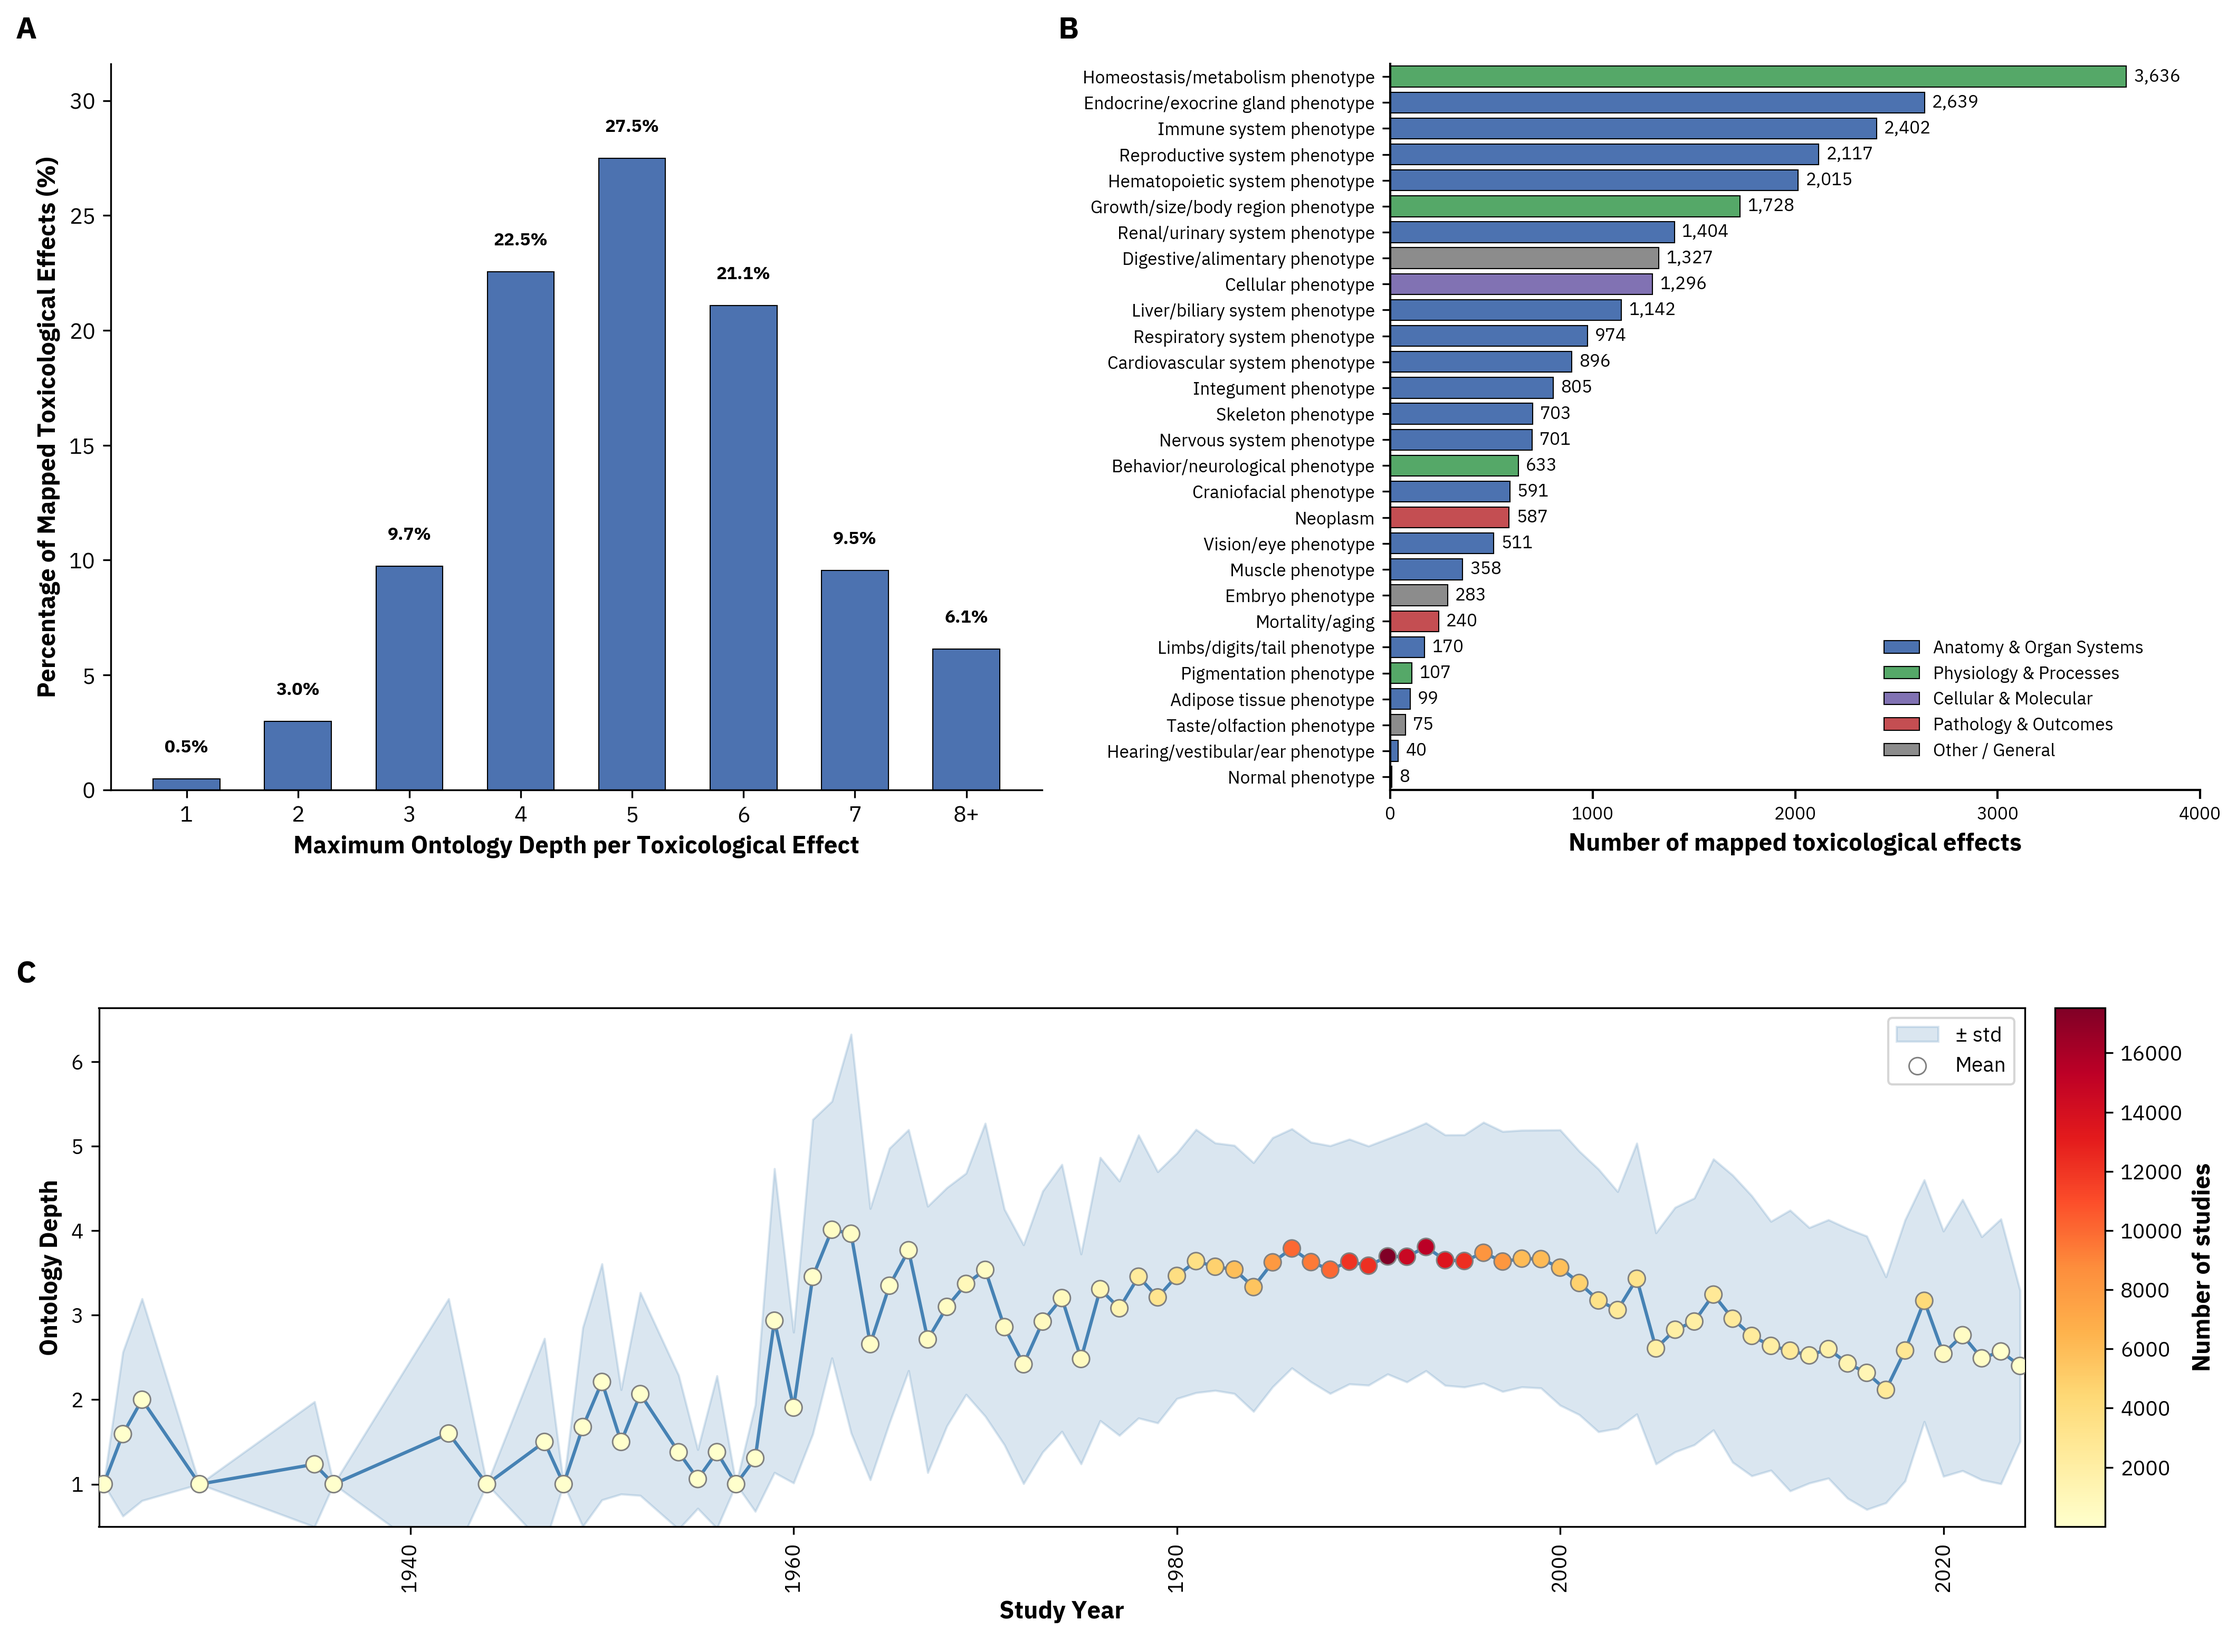
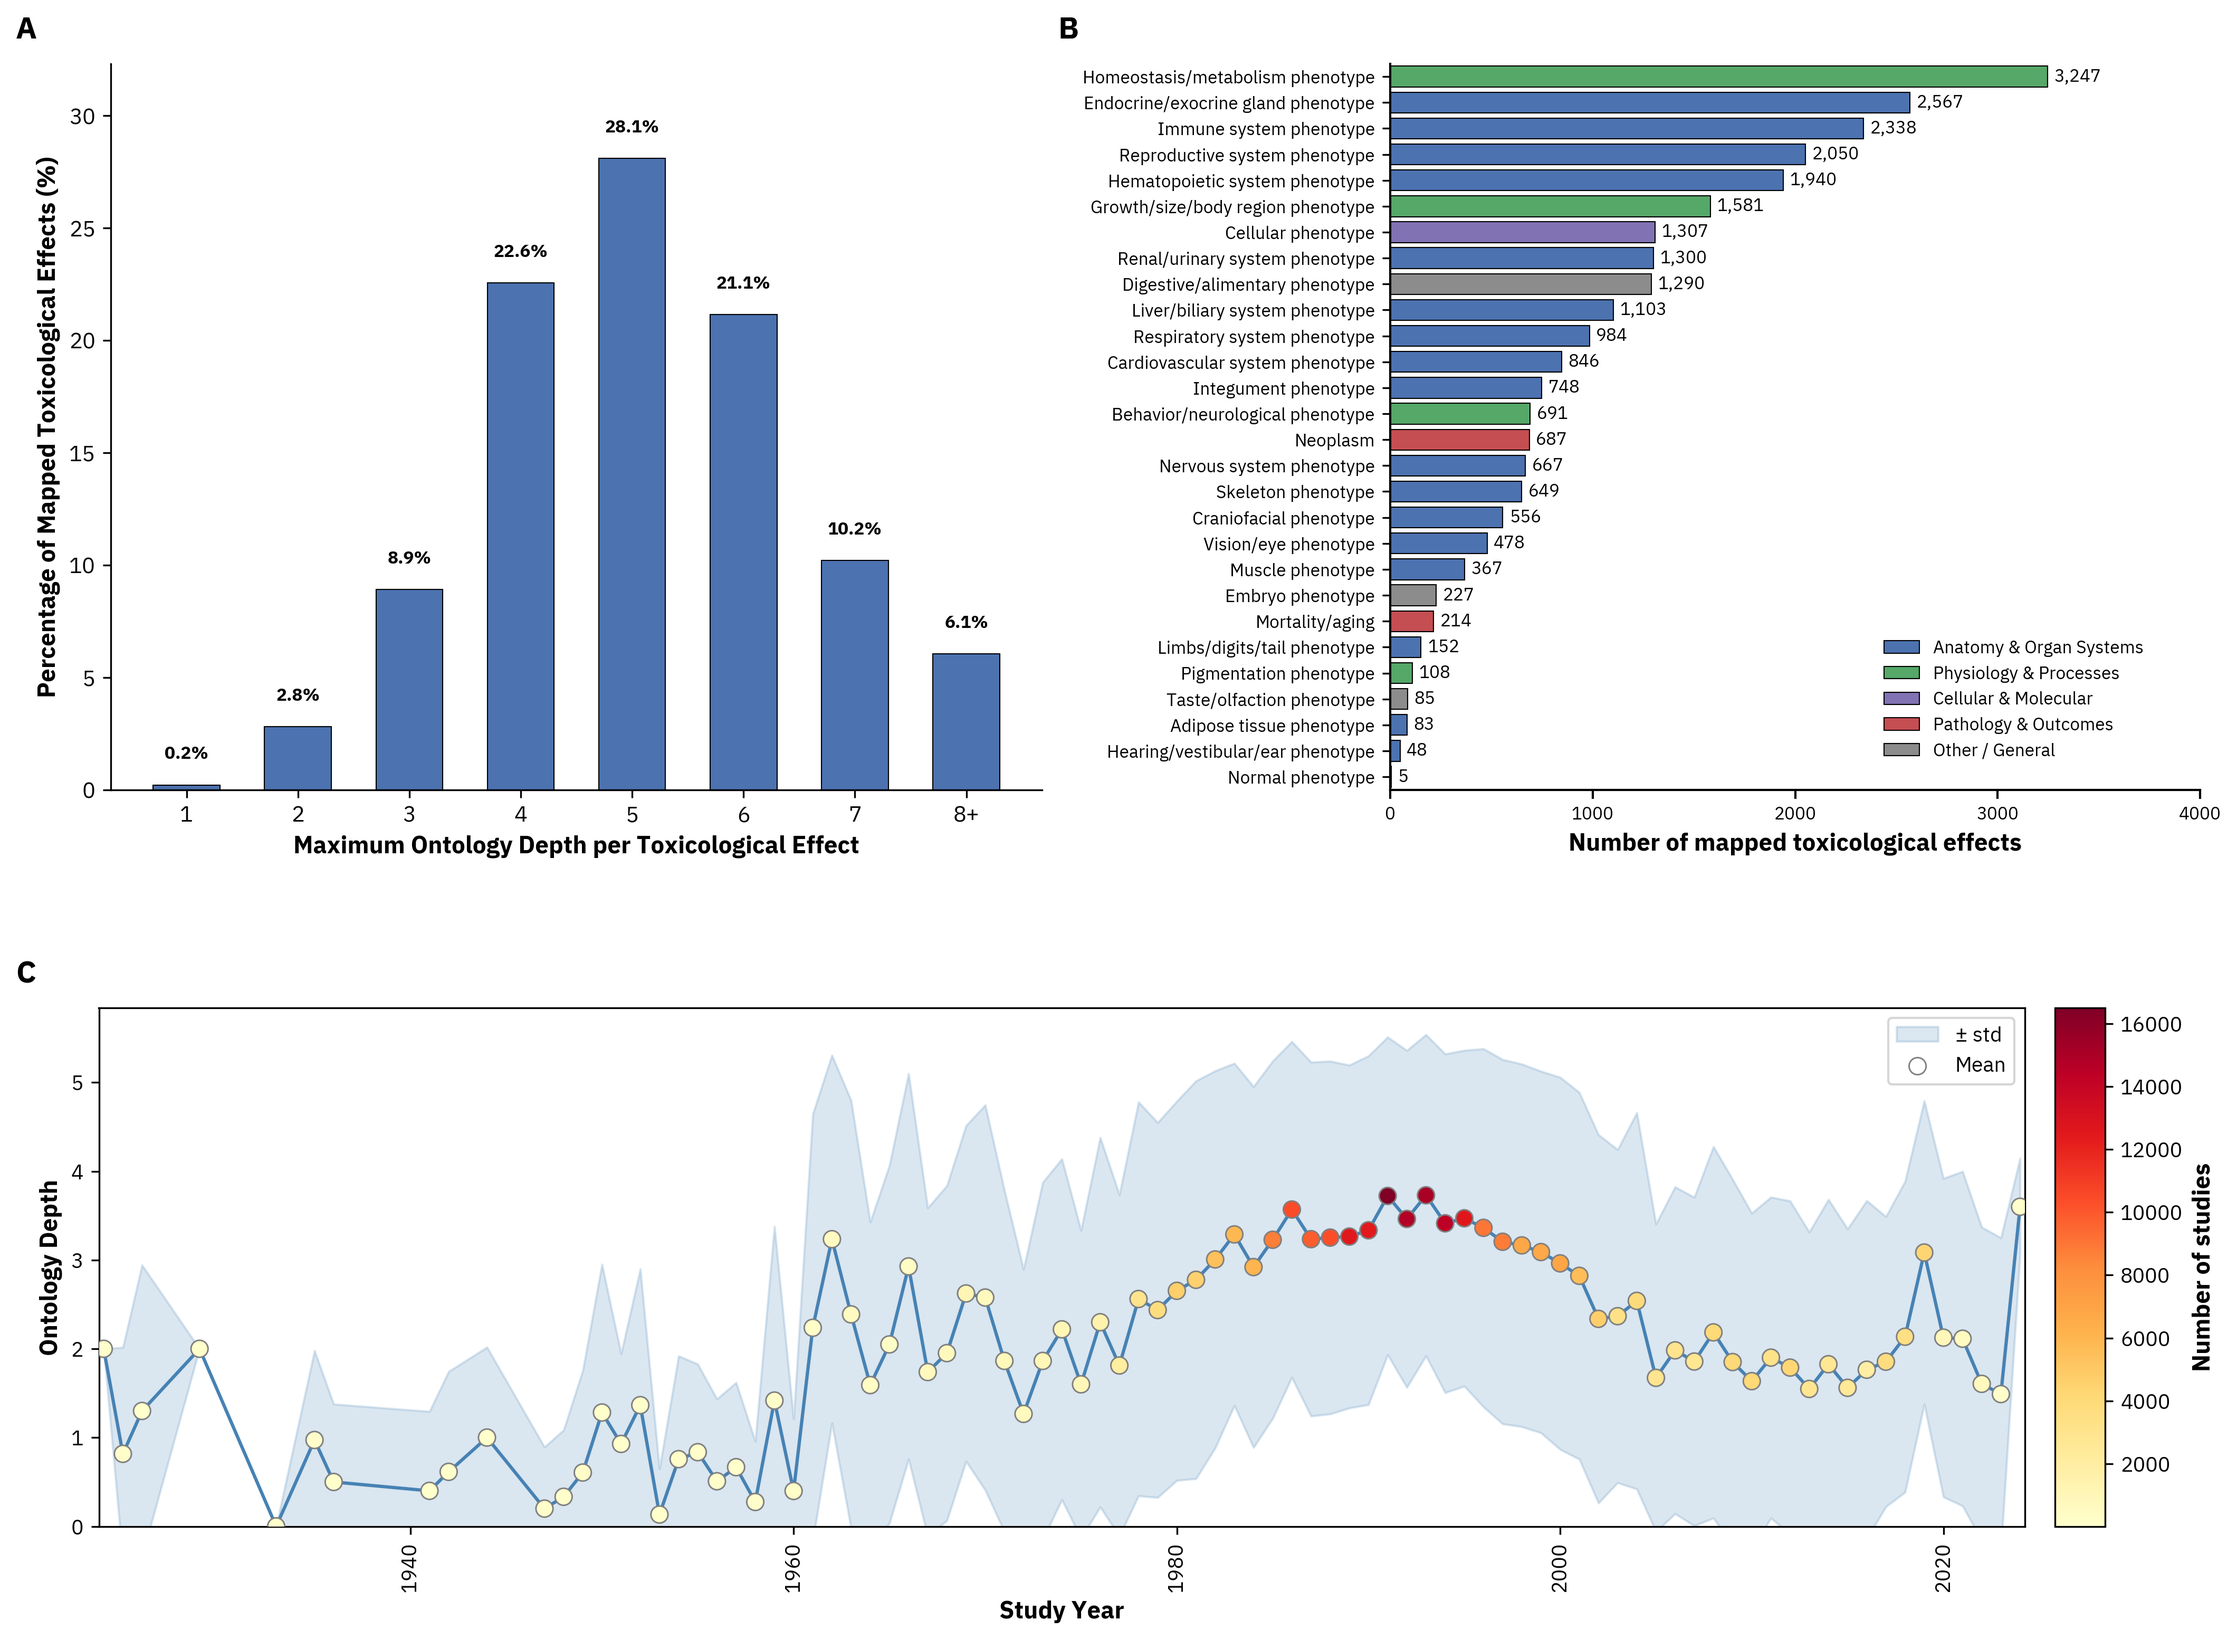
feat(eval): add min_year filter to eval results and update MP summary outputs

diff --git a/toxvaldb/03.evaluation/modules/03.eval_results/scripts/gen_mapping_success_depth.py b/toxvaldb/03.evaluation/modules/03.eval_results/scripts/gen_mapping_success_depth.py
@@ -22,6 +22,7 @@ def parse_args() -> argparse.Namespace:
     parser.add_argument("--root_term", required=True)
     parser.add_argument("--no_inner_donut", action="store_true", help="Exclude the inner donut chart showing depth levels")
     parser.add_argument("--no_inner_label_2", action="store_true", help="Hide the '2' label in the inner donut (show only '1')")
+    parser.add_argument("--min_year", type=int, default=1924, help="Minimum study year to plot on the line chart (default: 1924)")
     return parser.parse_args()
 
 
@@ -258,6 +259,7 @@ def plot_combined_summary(
     root_term: str,
     no_inner_donut: bool = False,
     no_inner_label_2: bool = False,
+    min_year: int = 1924,
 ) -> None:
     # 2-row grid layout using GridSpec
     # Row 1 has A (depth bar) and B (coverage bar), Row 2 has C (year vs depth line) spanning both columns.
@@ -407,7 +409,7 @@ def plot_combined_summary(
             ax_line.set_position([total_x0, pos_line_now.y0, line_width, pos_line_now.height])
             cax = fig.add_axes([total_x0 + line_width + gap, pos_line_now.y0, cax_width, pos_line_now.height])
 
-            draw_year_vs_max_depth_line(ax_line, year_stats, fig=fig, font_size=11, marker_size=60, cax=cax)
+            draw_year_vs_max_depth_line(ax_line, year_stats, fig=fig, font_size=11, marker_size=60, cax=cax, min_year=min_year)
         else:
             ax_line.text(0.5, 0.5, "year_depth_stats.csv not found", ha="center", va="center", fontsize=10)
 
@@ -456,6 +458,7 @@ def main() -> None:
         args.root_term,
         no_inner_donut=args.no_inner_donut,
         no_inner_label_2=args.no_inner_label_2,
+        min_year=args.min_year,
     )
 
 

diff --git a/toxvaldb/03.evaluation/modules/03.eval_results/scripts/eval_results.py b/toxvaldb/03.evaluation/modules/03.eval_results/scripts/eval_results.py
@@ -287,9 +287,12 @@ def draw_year_vs_max_depth_line(
     min_rows: int = 5,
     marker_size: float = 120,
     cax=None,
+    min_year: int | None = 1924,
 ) -> None:
     """Draw mean ± std depth by study year on the given axes."""
     ys = year_stats[year_stats["n_rows"] >= min_rows].copy()
+    if min_year is not None:
+        ys = ys[ys["YEAR"] >= min_year]
     ax.fill_between(
         ys["YEAR"],
         ys["mean_depth"] - ys["std_depth"],
